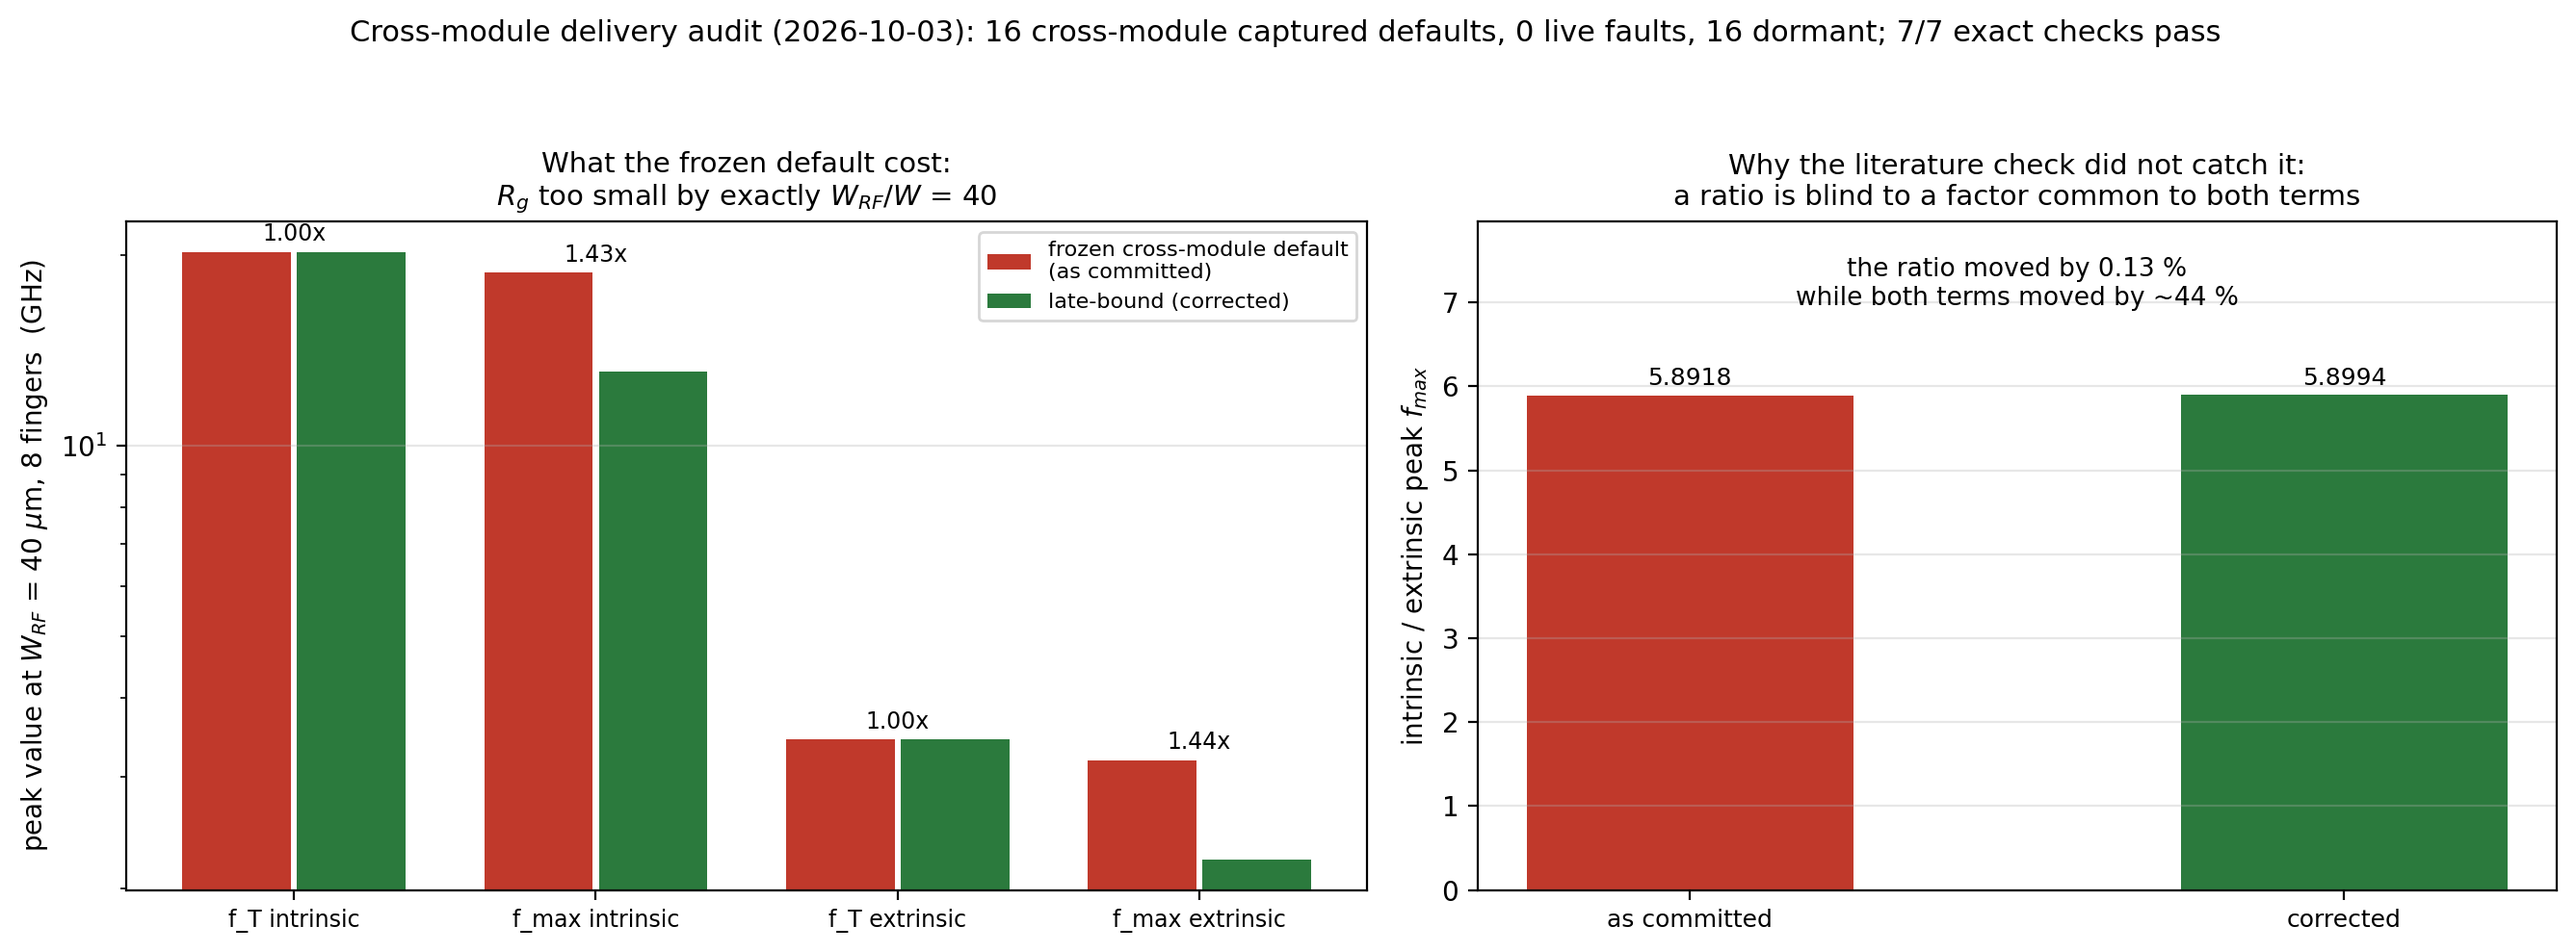
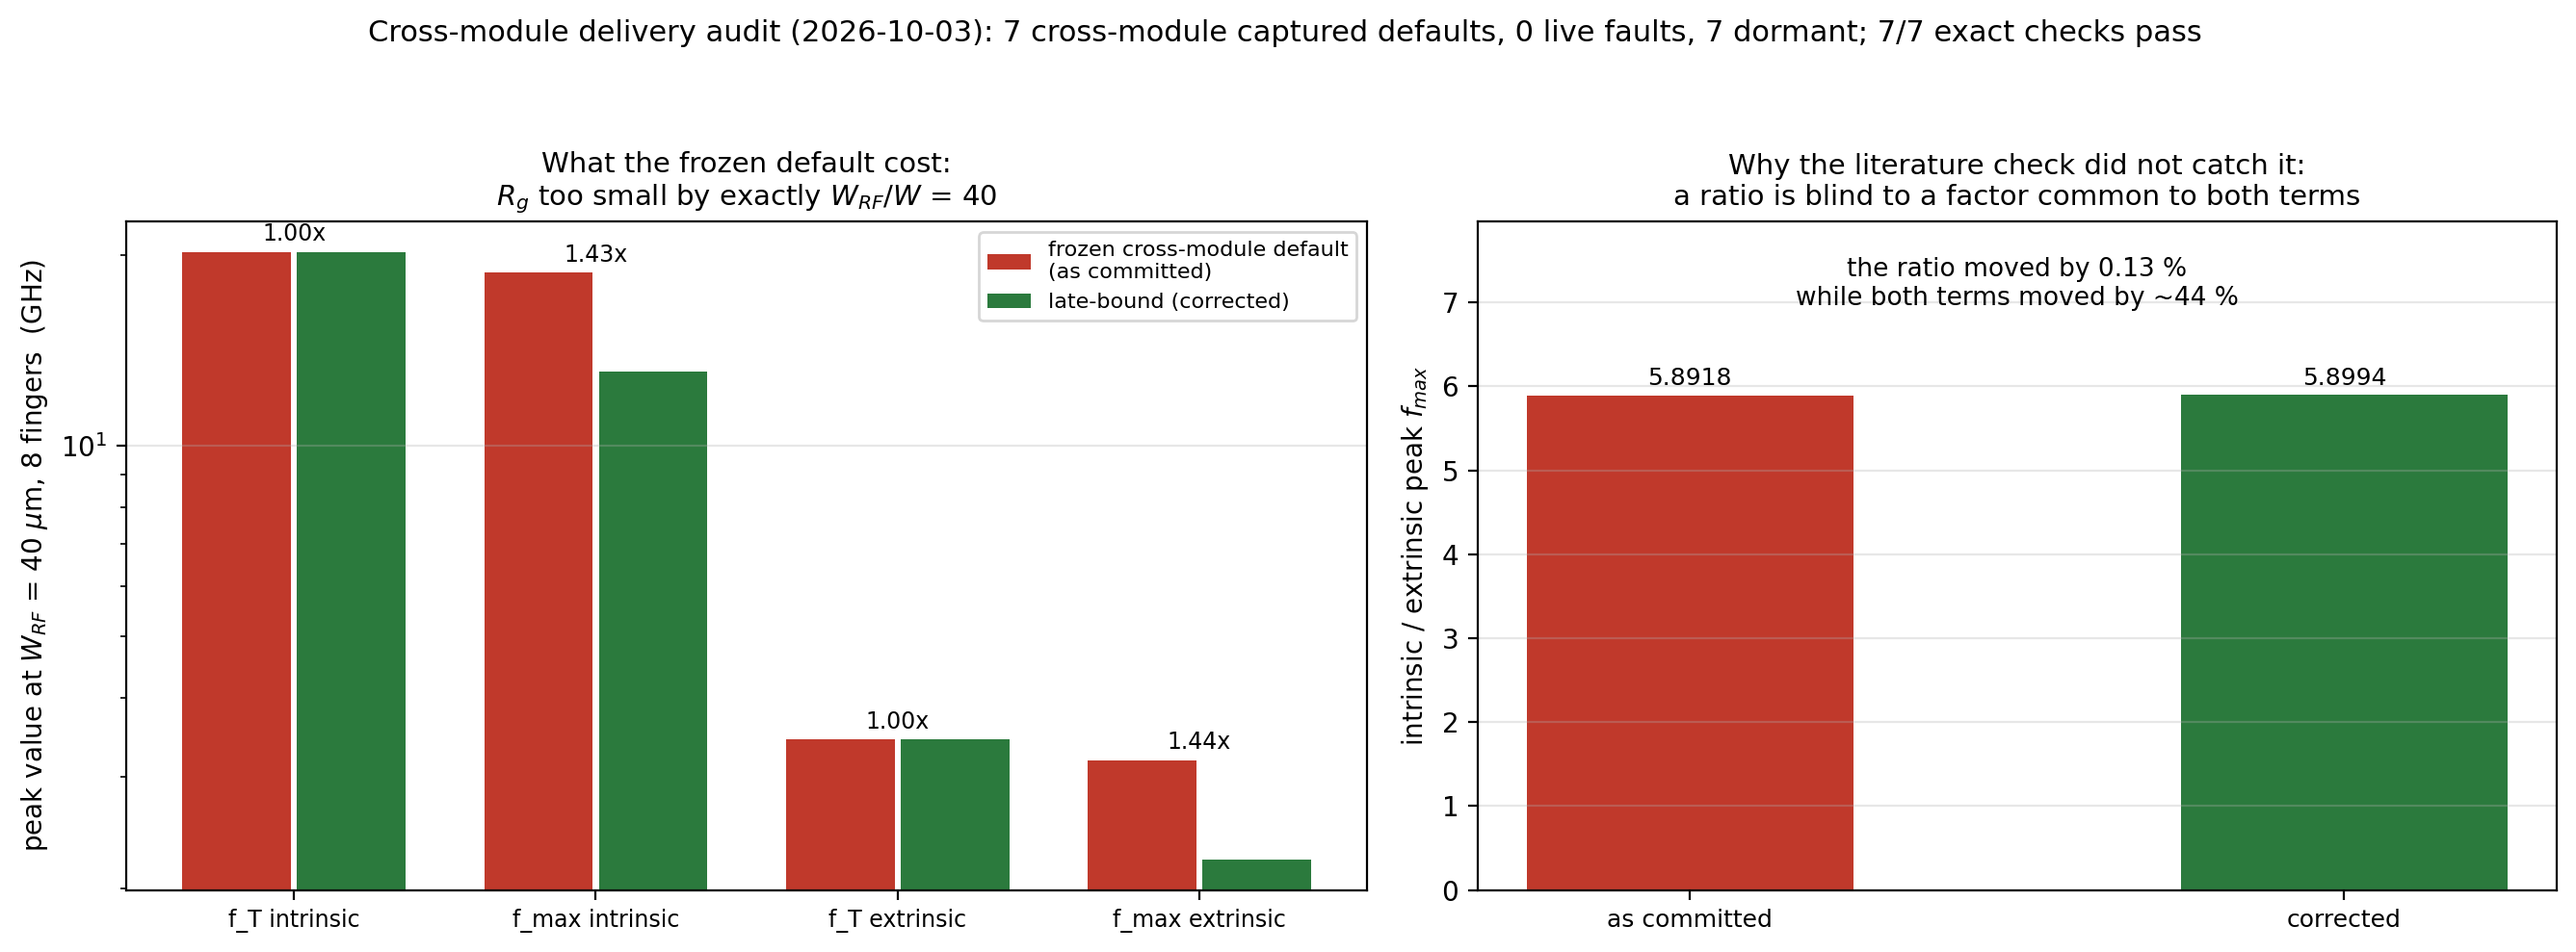
regenerate every committed transcript, not only the ones this session touched -- and it exposes 5 MIXED names and 12 frozen/live literals invisible for six sessions
Discharges the 2026-10-25 ranked-third item in its stronger form.  Six of the
fifteen registered transcripts were STALE, and only part of that is today's
own additions: the stale transcripts were generated against a tree with 55
Python files and the tree now has 66, so they predate several modules
entirely and were reporting on a repository that no longer exists.

What was hidden, all of it in the audit modules the figure-provenance audit's
own closing note named as "the next run's top item":

  * graphene_chord_decay_length.py (added 2026-10-20) carries THREE MIXED
    names -- D1_CHORD (3 frozen / 9 live), D2_CHORD (3/4) and D_SPAN (1/3) --
    and 7 frozen-vs-live numeric-literal occurrences.  MIXED is described by
    the arrival probe's own transcript as "the worst class, not a middle
    one", and the committed transcript reported totals {'LIVE': 1}, i.e. no
    MIXED name anywhere, for six sessions.
  * graphene_capture_surface_guard.py (added 2026-10-24) carries PERTURBATION
    and PROBE_V as MIXED (2 frozen / 1 live each) and 4 provenance
    occurrences.  The two names every counterfactual in this repository is
    taken with.
  * the cross-module captured-default census goes 3 -> 7 and the
    attribute-default capture census 1 -> 12 shipped plus 0 -> 4 of its own
    form; the computed-name setattr note goes 20 -> 28 call sites.
  * the standing-list audit was reading an AUTOMATION_LOG whose latest entry
[…]

Changed region(s): [[0.1242, 0.0, 0.4035, 0.0607], [0.6518, 0.0, 0.8691, 0.0607], [0.4346, 0.0303, 0.4656, 0.0607]]

diff --git a/graphene_installed_surface_audit.py b/graphene_installed_surface_audit.py
@@ -706,6 +706,26 @@ def main():
           cls_c == BITWISE_SAME
           and _ctrl_base(fixed, False).hex() == _ctrl_base(fixed, True).hex(),
           cls_c)
+    check('C3b every class the axis returns is a declared member of '
+          'DEPENDENCE, and exactly two of the four are in REVERSING -- the '
+          'ones that make a verdict taken in the wrong configuration false',
+          cls_a in DEPENDENCE and cls_b in DEPENDENCE and cls_c in DEPENDENCE
+          and set(REVERSING) == {DEAD_AS_INSTALLED, LIVE_ONLY_AS_INSTALLED}
+          and len(DEPENDENCE) == 4
+          and sorted(c in REVERSING for c in (cls_a, cls_b, cls_c)).count(True)
+          == 2,
+          '%s/%s/%s' % (cls_a, cls_b, cls_c))
+    check('C3c the control reaches the value through the NAME the flip '
+          'rebinds -- rebinding CTRL_ROUTE is what swaps _CTRL_A for _CTRL_B '
+          'on the surface -- yet CTRL_ROUTE is itself INVISIBLE to '
+          'csg.capture_surface, because the script module is outside '
+          'rra.repo_modules().  The same gap vrs._modules() was written for '
+          'on 2026-10-25, and the reason the controls here must measure '
+          'through vrs.leverage_here rather than csg.leverage',
+          CTRL_ROUTE not in csg.capture_surface(routed)[0]
+          and CTRL_A in vrs.value_reads(routed)
+          and _this_module()._ctrl_route is _ctrl_route_a,
+          _dotted(CTRL_ROUTE))
     with control_flip(identity=True):
         id_base = float(routed(csg.PROBE_V))
         id_surf = vrs.complete_read_surface(routed)[0]

diff --git a/graphene_pristine_transcript_audit.py b/graphene_pristine_transcript_audit.py
@@ -122,6 +122,17 @@ SUITES = [
     # to a session that trusts that artefact, which is every session.
     ("graphene_standing_list_audit.py",
      "standing_list_audit_output.txt"),
+    # Added 2026-10-26, in the same commit that regenerates the six stale
+    # transcripts this table's own STALE verdict exposed.  The 2026-10-25
+    # standing item asked for every transcript to be regenerated each session
+    # rather than only the ones the session touched; doing that found five
+    # MIXED names and twelve frozen/live numeric literals that had been
+    # invisible for six sessions, because the transcripts predate the modules
+    # containing them.  A suite not in this table is a suite whose transcript
+    # can go stale silently, so today's suite joins the table on the day it is
+    # written rather than on the day someone notices.
+    ("graphene_installed_surface_audit.py",
+     "installed_surface_audit_output.txt"),
 ]
 
 # This module is deliberately absent from SUITES.  It would have to run itself
